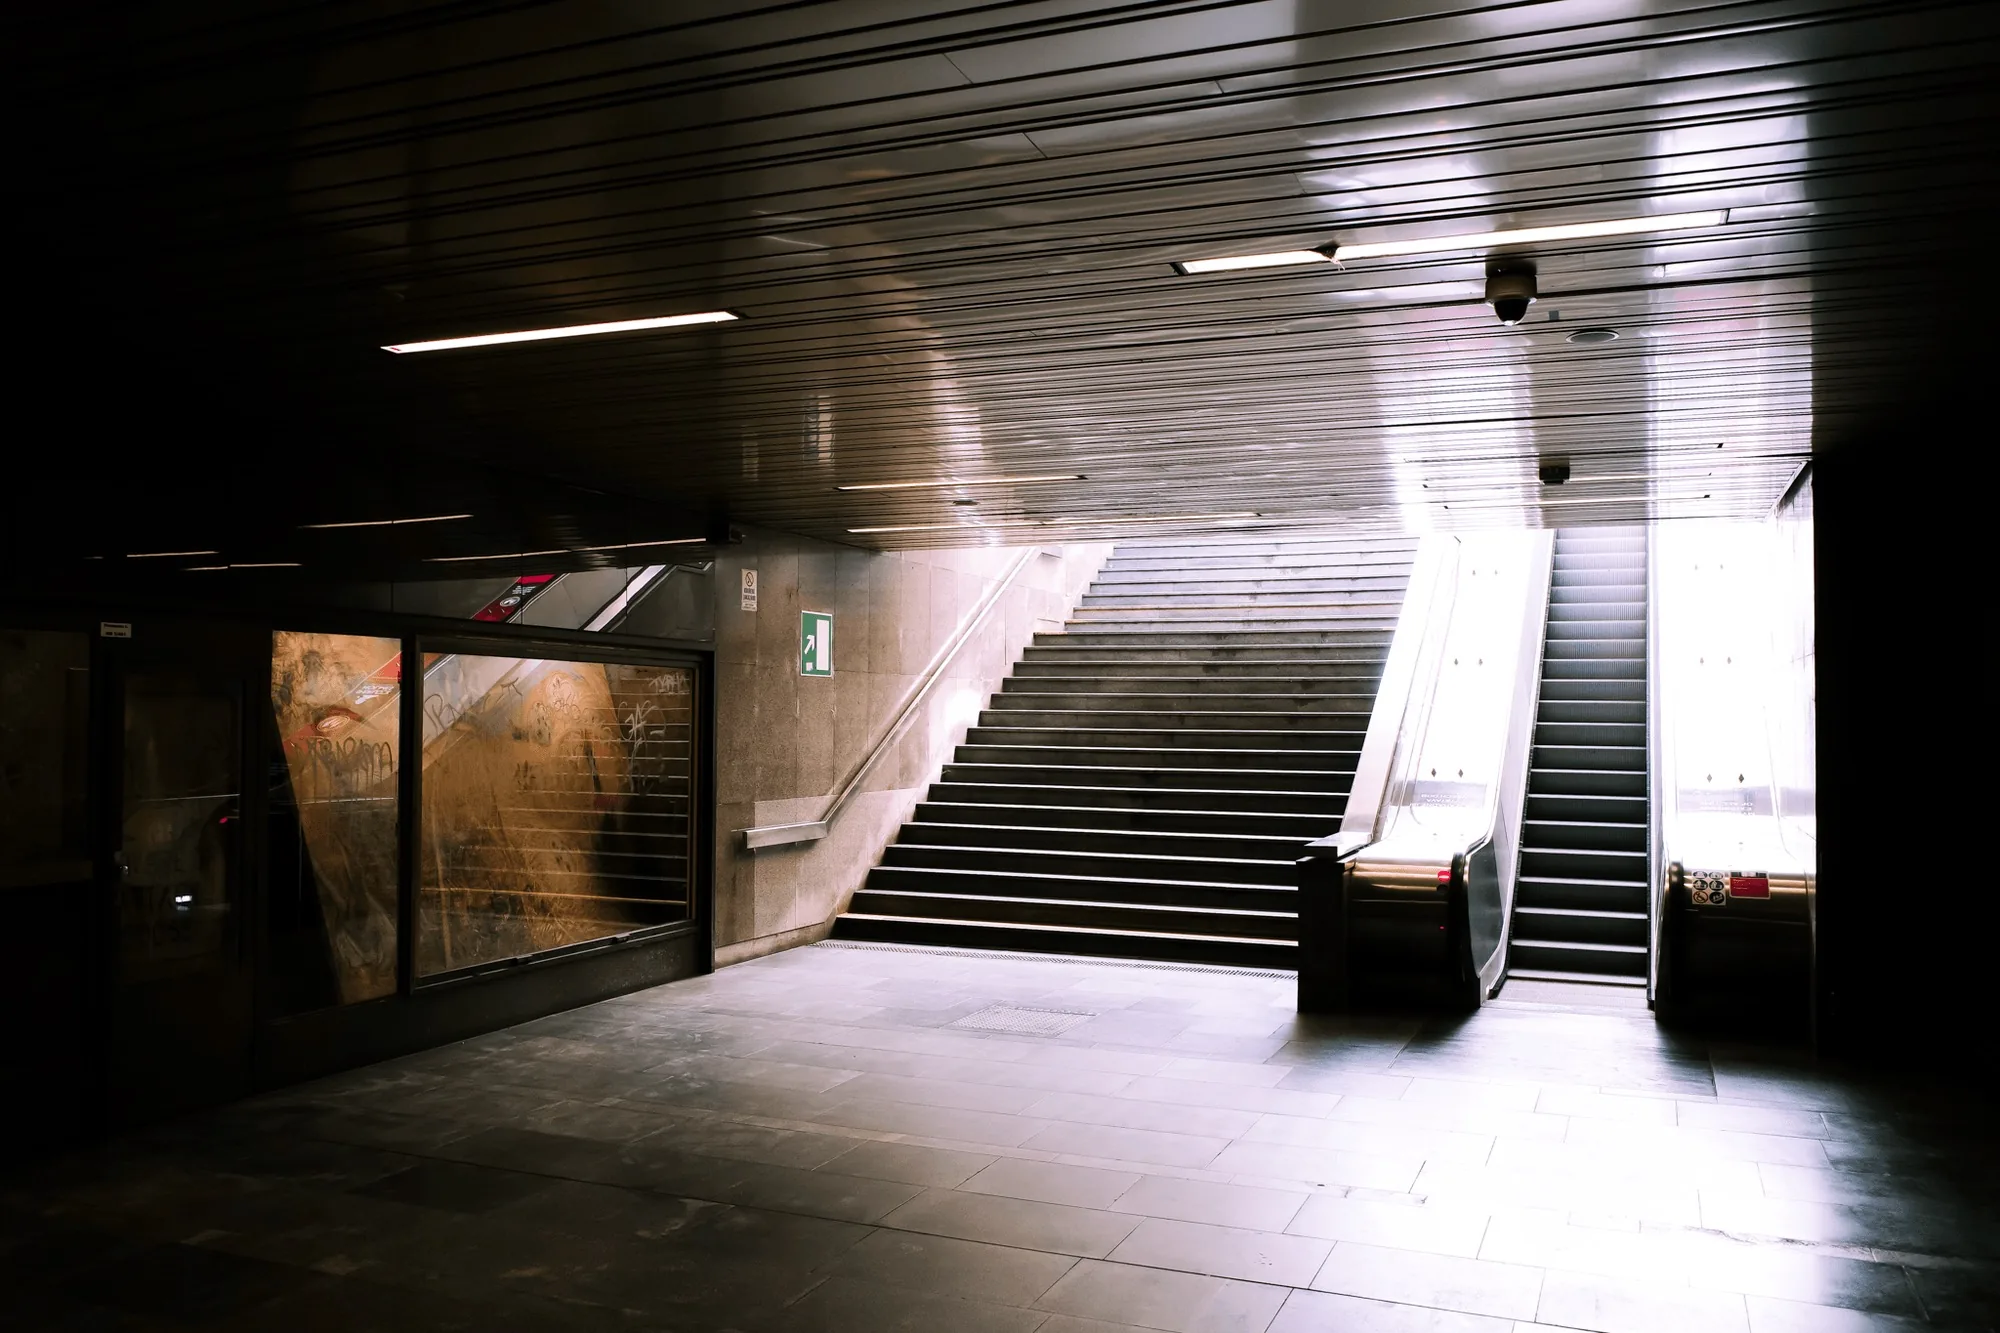
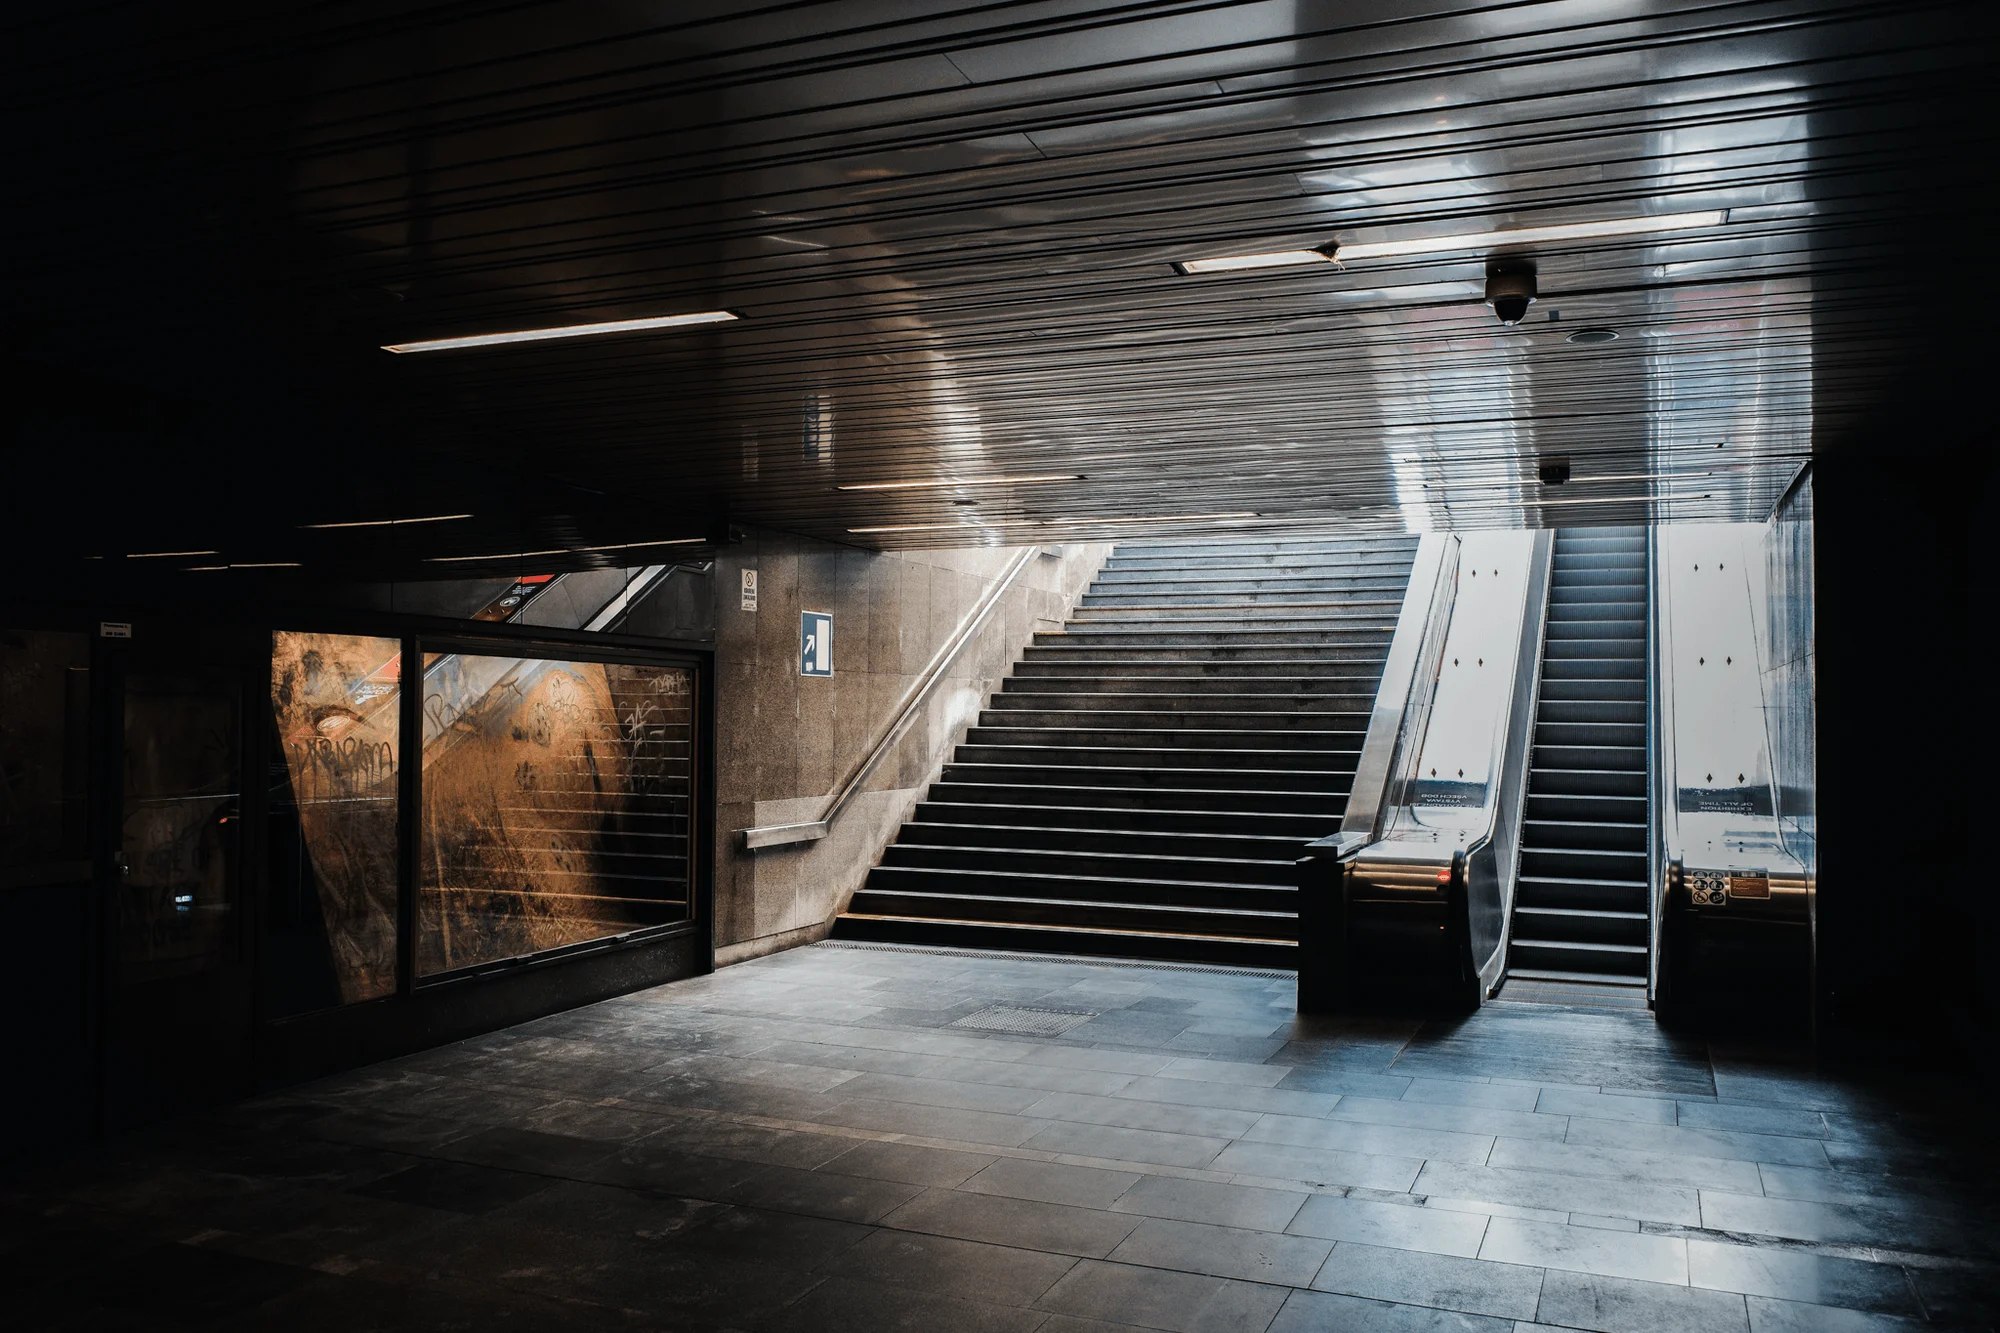
Replace hero background image and fix game touch-scroll conflict on mobile
- Swap hero-bg.webp to metro staircase photo (both CZ + EN home pages)
- Fix canvas touchstart blocking page scroll: now uses touchend with tap detection (< 10px movement) so scrolling works freely, tapping still starts/jumps the game

diff --git a/en/index.html b/en/index.html
@@ -481,7 +481,13 @@ window.addEventListener('keydown', e => {
   if (e.code === 'Space' || e.code === 'ArrowUp') { e.preventDefault(); jump(); }
 });
 canvas.addEventListener('click', jump);
-canvas.addEventListener('touchstart', e => { e.preventDefault(); jump(); }, { passive: false });
+let _touchStartY = 0, _touchStartX = 0;
+canvas.addEventListener('touchstart', e => { _touchStartX = e.touches[0].clientX; _touchStartY = e.touches[0].clientY; }, { passive: true });
+canvas.addEventListener('touchend', e => {
+  const dx = Math.abs(e.changedTouches[0].clientX - _touchStartX);
+  const dy = Math.abs(e.changedTouches[0].clientY - _touchStartY);
+  if (dx < 10 && dy < 10) jump();
+});
 canvas.addEventListener('mousemove', e => {
   if (state !== 'dead' || !btnBounds) { btnHover = false; return; }
   const r = canvas.getBoundingClientRect();

diff --git a/index.html b/index.html
@@ -656,7 +656,13 @@ window.addEventListener('keydown', e => {
   if (e.code === 'Space' || e.code === 'ArrowUp') { e.preventDefault(); jump(); }
 });
 canvas.addEventListener('click', jump);
-canvas.addEventListener('touchstart', e => { e.preventDefault(); jump(); }, { passive: false });
+let _touchStartY = 0, _touchStartX = 0;
+canvas.addEventListener('touchstart', e => { _touchStartX = e.touches[0].clientX; _touchStartY = e.touches[0].clientY; }, { passive: true });
+canvas.addEventListener('touchend', e => {
+  const dx = Math.abs(e.changedTouches[0].clientX - _touchStartX);
+  const dy = Math.abs(e.changedTouches[0].clientY - _touchStartY);
+  if (dx < 10 && dy < 10) jump();
+});
 canvas.addEventListener('mousemove', e => {
   if (state !== 'dead' || !btnBounds) { btnHover = false; return; }
   const r = canvas.getBoundingClientRect();

diff --git a/game.html b/game.html
@@ -288,7 +288,13 @@ window.addEventListener('keydown', e => {
   if (e.code === 'Space' || e.code === 'ArrowUp') { e.preventDefault(); jump(); }
 });
 canvas.addEventListener('click', jump);
-canvas.addEventListener('touchstart', e => { e.preventDefault(); jump(); }, { passive: false });
+let _touchStartY = 0, _touchStartX = 0;
+canvas.addEventListener('touchstart', e => { _touchStartX = e.touches[0].clientX; _touchStartY = e.touches[0].clientY; }, { passive: true });
+canvas.addEventListener('touchend', e => {
+  const dx = Math.abs(e.changedTouches[0].clientX - _touchStartX);
+  const dy = Math.abs(e.changedTouches[0].clientY - _touchStartY);
+  if (dx < 10 && dy < 10) jump();
+});
 
 loop();
 </script>
